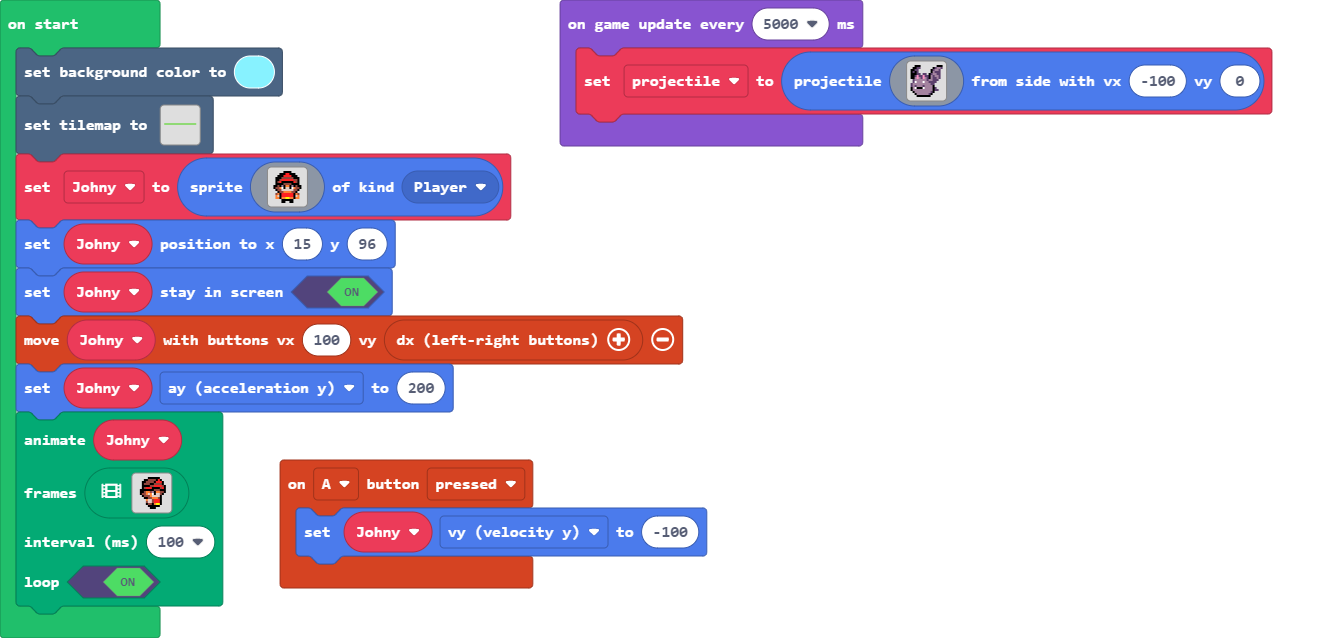
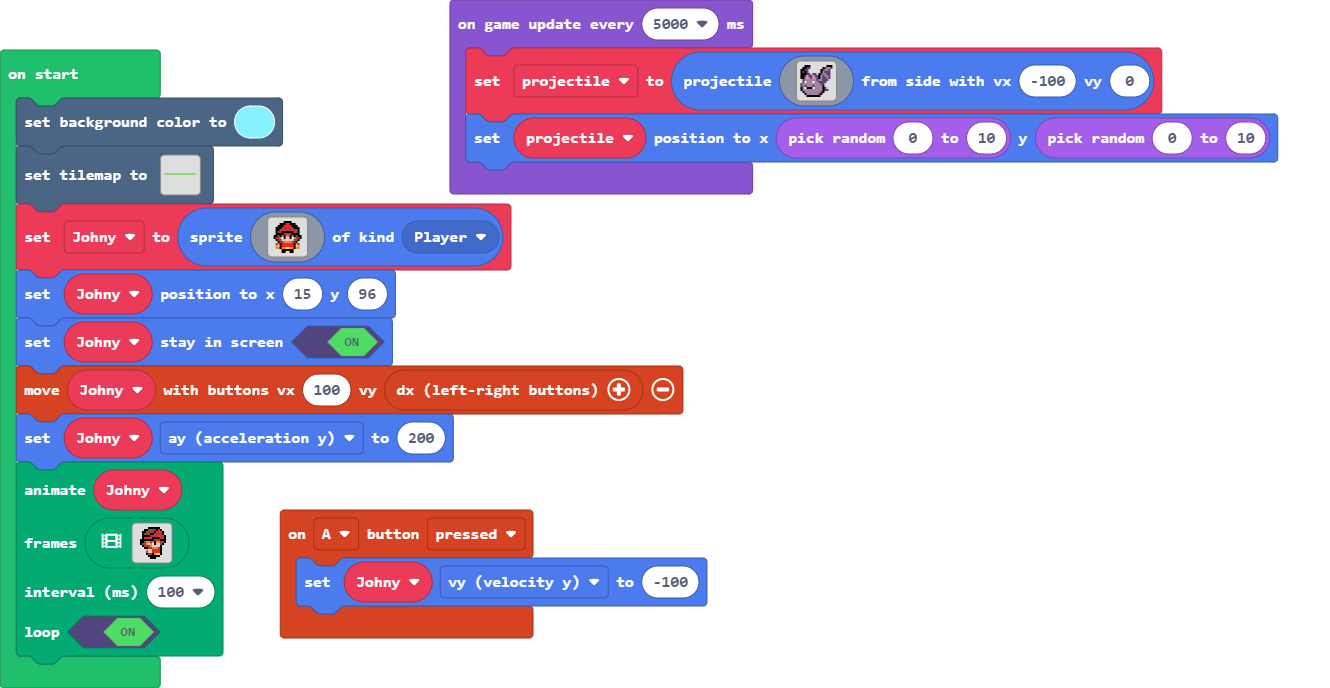
Update main.blocks, main.ts

Changed region(s): [[0.0, 0.0, 0.96, 0.9828], [0.1858, 0.7147, 0.5574, 0.953]]

diff --git a/main.ts b/main.ts
@@ -120,4 +120,5 @@ game.onUpdateInterval(5000, function () {
         . . f b b b b b b c f . . . . . 
         . . . f f f f f f f . . . . . . 
         `, -100, 0)
+    projectile.setPosition(randint(0, 10), randint(0, 10))
 })
